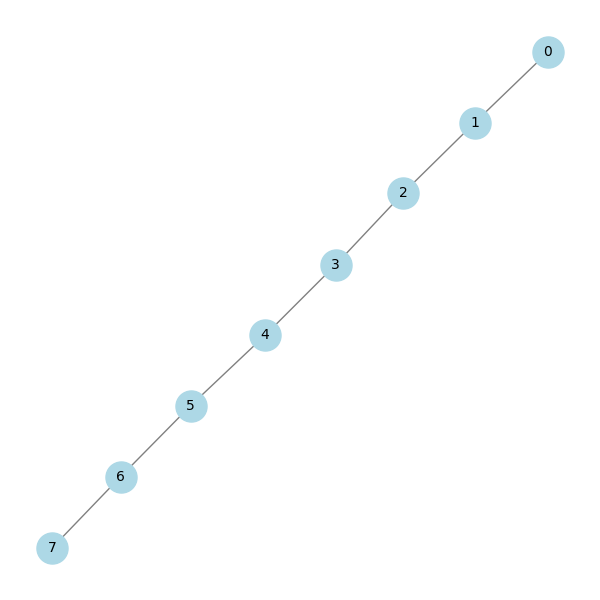
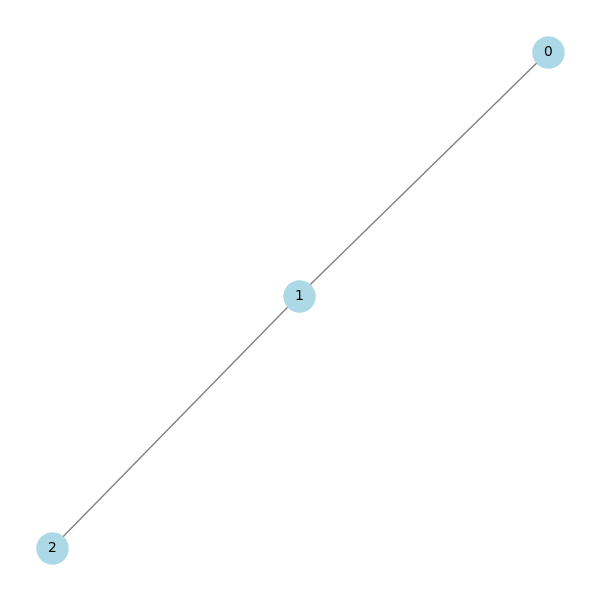
Readme update

diff --git a/utils/simulated_localization.py b/utils/simulated_localization.py
@@ -33,6 +33,7 @@ IPS = ["192.168.164.86",
 
 
 agents_position = [[-0.91, 0.3], [2.67, 0.12], [1.63, 2.59]]
+anchor_position = [[0.0, 0.0], [4.06, 2.77], [5.01, 0.0], [-1.32, 1.98]]
 target_position = [2.38, 2.6]
 agents_distance = []  # Actual distances between target and each agent
 
@@ -146,9 +147,16 @@ print(f'x error: {abs(x[0][-1]-target_position[0])*100} cm')
 print(f'y error: {abs(y[0][-1]-target_position[1])*100} cm')
 print(f'Distance from actual target: {np.sqrt((y[0][-1]-target_position[1])**2+(x[0][-1]-target_position[0])**2)*100} cm')
 
-"""for n in range(len(agents_position)):
+plt.scatter(agents_position[0][0], agents_position[0][1], color='blue', label='agent')
+for n in range(1, len(agents_position)):
     plt.scatter(agents_position[n][0], agents_position[n][1], color='blue')
-plt.scatter(target_position[0], target_position[1], color='red')
-plt.title("Agents and target position")
+
+plt.scatter(anchor_position[0][0], anchor_position[0][1], color='green', label='anchor')
+for n in range(1, len(anchor_position)):
+    plt.scatter(anchor_position[n][0], anchor_position[n][1], color='green')
+
+plt.scatter(target_position[0], target_position[1], color='red', label='target')
+plt.title("Agents, anchors and target position")
 plt.grid()
-plt.show()"""
+plt.legend()
+plt.show()

diff --git a/Plots/Localization/loc.py b/Plots/Localization/loc.py
@@ -6,7 +6,7 @@ plt.rcParams.update({'font.size': 12})
 
 
 n = 500  # Number of iterations
-plot_time = False
+plot_time = True
 plot_start = True
 actual_x = 2.38
 actual_y = 2.6
@@ -76,8 +76,8 @@ for file_path in csv_files:
         axs[1].plot(y[1:n], color=color[i])
 
 
-axs[1].plot(n*[actual_x], color='red', linestyle='--', label='Actual x position')
-axs[1].plot(n*[actual_y], color='black', linestyle='--', label='Actual y position')
+axs[1].plot(time[1:n], len(time[1:n])*[actual_x], color='red', linestyle='--', label='Actual x position')
+axs[1].plot(time[1:n], len(time[1:n])*[actual_y], color='black', linestyle='--', label='Actual y position')
 axs[0].legend()
 axs[1].legend()
 axs[0].grid(True)

diff --git a/Plots/graph.py b/Plots/graph.py
@@ -1,14 +1,9 @@
 import networkx as nx
 import matplotlib.pyplot as plt
 
-ADJACENCY = [[1, 1, 0, 0, 0, 0, 0, 0],
-             [1, 1, 1, 0, 0, 0, 0, 0],
-             [0, 1, 1, 1, 0, 0, 0, 0],
-             [0, 0, 1, 1, 1, 0, 0, 0],
-             [0, 0, 0, 1, 1, 1, 0, 0],
-             [0, 0, 0, 0, 1, 1, 1 ,0],
-             [0, 0, 0, 0, 0, 1, 1 ,1],
-             [0, 0, 0, 0, 0, 0, 1 ,1]]
+ADJACENCY = [[1, 1, 0],
+             [1, 1, 1],
+             [0, 1, 1]]
 
 
 # Créer le graphe

diff --git a/README.md b/README.md
@@ -1,13 +1,23 @@
-# Balboa swarm communication using RPi's
+# Robotic swarm platform based on the Balboa self-balancing robot
 
 This repository contains a communication platform within a Balboa swarm. 
 A RPi is shielded on each Balboa.
 There are two communication protocole used in it:
 * I²C communication between RPi and Balboa
 * Bluetooth communication within a RPi graph
+
 The agents are equipped with Decawave DWM1001 UWB modules allowing them to measure their position and distances with anchors.
-#
+
+<p align="center">
+  <img src="images/hardware.png" alt="hardware.py" width="400"/>
+</p>
+
 ## System, communication & peripherals
+
+<p align="center">
+  <img src="images/software.png" alt="software" width="1000"/>
+</p>
+
 ### RPi - Balboa Communication: I²C
 The RPi is connected to the 3.3V side of the bus, all other devices are connected to 5V side
 The master is the RPi, it has 4 slaves:
@@ -20,7 +30,7 @@ The Balboa manage encoders and push button reading, leds setting and Decawave DW
 
 The RPi manages the control loop with IMU readings by requesting information from Balboa via I²C.
 
-#### RPi/src/balboa.py
+#### balboa.py
 Class that allows RPi to request/write information from/to Balboa using I²C communication such as:
 * Encoder values (read)
 * Push button (read)
@@ -30,20 +40,24 @@ Class that allows RPi to request/write information from/to Balboa using I²C com
 * Leds (write)
 * Motor speed (write)
 
-#### RPi/src/lsm6.py
+#### lsm6.py
 Class that allows RPi to request information from IMU using I²C communication such as:
 * Acceleration[3]
 * Gyroscope[3]
 
-#### RPi/src/balance.py
+#### balance.py
 Run control algorithm in a separate thread.
 
 ### RPi Network communication: Bluetooth
-#### RPi/src/bluetooth.py
+#### bluetooth.py
 Class that allows RPi's to communicate between them providing:
 * **RPi's MAC address list**
 * **ID** of the current RPi corresponding of its index in the RPi's MAC address list.
 * **Adjacency matrix**: Symmetric square matrix containing edges in the RPi's graph.
+
+<p align="center">
+  <img src="images/bluetooth.png" alt="bluetooth.py" width="400"/>
+</p>
 
 Two steps are performed, after having successfully setup devices beforehand as explained in the next section.
 
@@ -60,8 +74,34 @@ there will be 3 (pseudo) threads running this function.
 * Several processes can use the same bluetooth instance with its connections by using process id.
 * Last message of process i is stored in *bluetooth.buffer[i]* in hexadecimal format. This buffer has length corresponding to *bluetooth.RPI_MACS*.
 
-#### RPi/src/synchronous.py
-#### RPi/src/asynchronous.py
+#### synchronous.py
+Class that enable a synchronous communication within the graph.
+
+It includes a buffer that is composed of decoded values from *bluetooth.buffer* (using a specified structure of types).
+
+The iteration timing is controlled using:
+* Acknowledgement loop: avoid to skip any iteration by sending message before every neighbors read the previous one.
+* Iteration loop: wait for each neighbor current state before computing the next state.
+
+An acknowledgement is then sent after each state reading but a small delay is needed to avoid sending ackowledgement too fast after the message, it would corrupt the communication. If you get timeout error, it is probably due to this delay that need to be increased.
+
+This synchronization process enables it to run iterative algorithm in a distributed way.
+
+<p align="center">
+  <img src="images/sync.png" alt="synchronous.py" width="200"/>
+</p>
+
+#### asynchronous.py
+Class that enable an asynchronous communication within the graph.
+
+It includes a buffer that is composed of decoded values from *bluetooth.buffer* (using a specified structure of types).
+
+Each (delay) seconds, it will send a message and compute the next one based on neighbors messages and its own state.
+It can also execute any function each iteration.
+
+<p align="center">
+  <img src="images/async.png" alt="asynchronous.py" width="200"/>
+</p>
 
 ### Decawave DWM1001 - UWB position/distance sensing
 This module can be set as a tag or an anchor
@@ -71,15 +111,25 @@ This module can be set as a tag or an anchor
 This module is equipped with a SPI/UART/embedded API allowing to communicate with the antenna
 * We use UART with the Balboa TX/RX
 
-#### RPi/src/dwm1001.py
+#### dwm1001.py
 
+This class allow the communication with DWM either by using RPi with the DWM connected on TX/RX from the RPi, or by reading the measures over I²C from the Balboa with the DWM connected on the TX/RX from the Balboa.
+
+<p align="center">
+  <img src="images/dwm.png" alt="dwm.py" width="200"/>
+</p>
+
+It includes a postprocessing function that uses:
+* Moving window average for distance and position
+* Calibrated model of the sensor (see /utils/dwm_calibration.py)
+
+The communication with the DWM uses its UART API in generic mode and uses command 0x0C00 (see DWM API guide)
 
 ### Balboa (Arduino)
 #### BalboaRPiSlave.ino
 It includes the *Decawave DWM1001* reading. 
 It sends data requested by RPi via I²C and write received data from the RPi.
 
-#
 ## Setup & configuration
 ### RPi's
 I use an ssh connection with each of my RPi's by connecting them to hotspot because RPi's cannot connect to eduroam.
@@ -157,7 +207,25 @@ but you could put it to 15 or 20 if you get I²C I/O errors.
 PololuRPiSlave<struct Data,20> slave;
 ```
 
-#
+### DWM
+You should activate serial communication inside:
+```bash
+
+sudo raspi-config
+```
+After that, connect the DWM on native UART port of the RPi and it should appears as /dev/serial0.
+You can open a shell running:
+```bash
+
+sudo minicom -D /dev/serial0
+```
+Type 'enter' twice to switch the DWM UART mode from generic to shell.
+You should get 'dwm>' allowing the laptotp to send commands (type help to see).
+
+On some RPis, data could be sent automatically. It can be solved by removing the line containing serial0 in /boot/firmware/cmdline.txt
+
+The setup of each node should be done using the mobile app, see the DWM documentation.
+
 ## Examples
 For these examples, bluetooth and I²C communication need to be setup before the first use as described in the previous section. The setup is already operational on the RPis, you can access them by setting a hotspot with the following credentials:
 * SSID: Romain
@@ -170,10 +238,14 @@ Before each of these example, you should specify your setup by setting the follo
 * *RPIS_MACS*
 * *ADJACENCY* 
 
-### RPi/Examples/consensus.py
+### Consensus
 This is an example of a **synchronous** communication
 A consensus algorithm will make the RPi graph to converge toward the same state without direct communication.
 This example contains a very basic algorithm that performs the **average between the RPi state and its neighbors states** that have been sent over Bluetooth.
+
+<p align="center">
+  <img src="images/consensus.png" alt="consensus" width="200"/>
+</p>
 
 It uses:
 * Bluetooth
@@ -187,9 +259,13 @@ ID is the index of the current RPi in bluetooth.RPIS_MACS, init_state is the ini
 
 The format of the state used in this example 'f' (float) corresponding to the value that is averaged. 
 
-### RPi/Examples/synchronization.py
+### Synchro
 This is an example of a **multi-process** synchronous communication
 This algorithm uses the same basic algorithm of the previous consensus example, but on 2 values: phase and frequency. The blinking of the leds of the Balboa reflects both states.
+
+<p align="center">
+  <img src="images/synchro.png" alt="synchro" width="200"/>
+</p>
 
 It uses:
 * Bluetooth
@@ -197,34 +273,61 @@ It uses:
 * Balboa
 
 ```
-Usage: python consensus.py <ID> <init_frequency>
+Usage: python synchro.py <ID> <init_frequency>
 ```
 ID is the index of the current RPi in bluetooth.RPIS_MACS, init_frequency is the initial state of the frequency consensus of the current RPi
 
-### RPi/Examples/localize_target.py
+### Target localization
+This is an example of synchronous communication using Decawaves providing real measures.
+The purpose is to localize a target using agents at known position with distance measurements up to the target.
+The measurements are done using Decawave DWM1001 UWB modules.
+
+<p align="center">
+  <img src="images/localize.png" alt="localize" width="250"/>
+</p>
+
+It uses:
+* Balboa
+* DWM
+* Sync
+* Bluetooth
+
+The next state is computed based on position of agent and distance up to the target, using the gradient descent algorithm.
+All agent will converge toward the same target position, despite the fact that the graph is not fully connected.
+
+```
+Usage: python localize.py <ID>
+```
+ID is the index of the current RPi in bluetooth.RPIS_MACS
+
+
 
 ### StandUp
 This is an example of **asynchronous** communication
 This example will make the Balboa stand up like dominos. If a Balboa is down and one of its neighbors is up, it will stand up.
+
+<p align="center">
+  <img src="images/standup.png" alt="standup" width="200"/>
+</p>
+
 It uses:
 * Bluetooth
 * Async 
 * Balboa
 * Balancing
 ```
-Usage: python main_standup.py <ID>
+Usage: python standup.py <ID>
 ```
 ID is the index of the current RPi in bluetooth.RPIS_MACS
 
 The delay of asynchronous communication should be high enough to be safe with the robots.
 
-#
+
 ## Scripts
 
-I created 2 bash scripts that aim to facilitate and accelerate the testing process of the system. 
-Indeed, uploading each file manually using Filezilla with different parameters and executing each of them separately on each RPi could take time.
+I created 4 bash scripts that aim to facilitate and accelerate the testing process and interaction with the swarm. 
+Indeed, uploading each file manually using Filezilla with different parameters and executing each of them separately on each RPi could take time. Same for doing some plots.
 
-These scripts allow the user to do that with only 2 commands.
 Before running these scripts, make sure the execution permission is set or run:
 ```bash
 
@@ -266,4 +369,39 @@ For example, consensus example can be run for 3 RPi's with this single command :
 ```bash
 
 ./run.sh /home/trebelge/Documents/synchro/Bluetooth/main_consensus.py 192.168.1.37:10.0,0 192.168.1.35:3.0,0 192.168.1.17:5.0,0
+```
+
+### fetch_csv.sh
+This script can be used instead of **Filezilla** to get files faster and easier from RPi.
+
+This script allows the user to transfer a file available on each RPi, on a computer on the same LAN network using scp.
+It is especially useful when working with a lot of RPi.
+
+```
+Usage: ./fetch_csv.sh file_name <IP1> <IP2> ... <IPn>
+```
+
+Inside fetch_csv.sh, you should change the following lines corresponding to your own setup:
+* **DEST_DIR** must be set as the PC side directory where files will be transfered.
+* **REMOTE_CSV_PATH** must be as the RPi side directory that will contain file_name.csv
+* **USER** is the RPi user used to connect via ssh
+* **SSH_KEY** can contain the path to an ssh key to avoid being asked to type ssh password
+
+
+### command.sh
+This script can be used to send the same command to all RPis
+It is especially useful when working with a lot of RPi
+
+```
+Usage: ./command.sh 'command' <IP1> <IP2> ... <IPn>
+```
+
+Inside command.sh, you should change the following lines corresponding to your own setup:
+* **USER** is the RPi user used to connect via ssh
+* **SSH_KEY** can contain the path to an ssh key to avoid being asked to type ssh password
+
+For example, in order to shut down every RPi, run:
+```bash
+
+./command.sh "sudo shutdown -h now" 192.168.1.37 192.168.1.35 192.168.1.17
 ```
